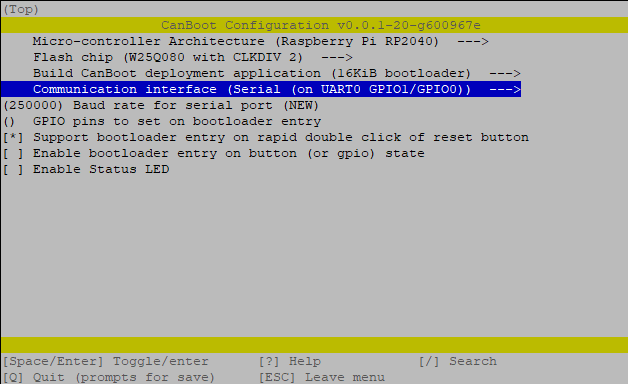
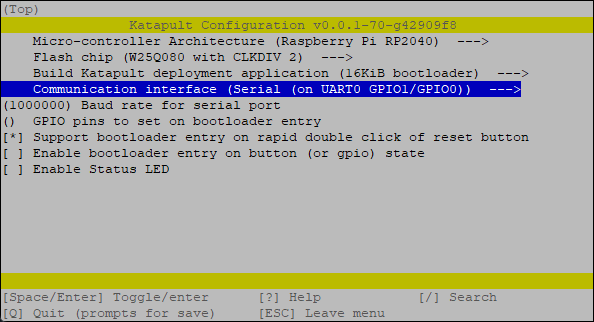
finished instructions

Changed region(s): [[0.0, 0.0, 1.0, 0.559], [0.0, 0.8385, 1.0, 1.0]]

diff --git a/README.md b/README.md
@@ -1,7 +1,12 @@
 # Steps to Flash BTT SKR Pico v1.0 with Canboot & Klipper in UART mode
 
-## Install CanBoot if you haven't already
-- Run the following from your klipper host to copy the canboot github files
+## Install Pyhton3 & CanBoot if you haven't already
+- Run the following from your klipper host to install Python3
+```
+sudo apt install python3 python3-pip python3-serial -y
+```
+
+- Now copy the canboot github files to your klipper host
 ```
 cd ~/
 git clone https://github.com/Arksine/CanBoot
@@ -40,6 +45,7 @@ is_system_service: False
     - MCU Raspberry Pi RP2040
     - Build CanBoot deployment 16Kib Bootloader
     - Com interface Serial on UART
+    - 1000000 baud rate
 
 ![Canboot in UART mode](/img/skr_pico_canboot_uart.png)
 
@@ -100,6 +106,7 @@ is_system_service: False
     - MCU Raspberry Pi RP2040
     - bootloader offset 16Kib Bootloader
     - Com interface Serial on UART
+    - 1000000 baud rate
 
 
 ![Klipper UART](/img/skr_pico_klipper_canbus_uart.png)    
@@ -112,7 +119,19 @@ is_system_service: False
  - Connect the SKR Pico UART pins to the klipper host.
  - Flash the klipper.bin file to the SKR Pico
   ```
-  python3 ~/CanBoot/scripts/flash_can.py -f ~/klipper/out/klipper.bin -d  /dev/ttyAMA0
+  python3 ~/CanBoot/scripts/flash_can.py -f ~/klipper/out/klipper.bin -d  /dev/ttyAMA0 -b 1000000
   ```
 
 - Reboot and your Pico should come back up in Serial UART mode.
+
+### Flashing again after Canboot and klipper has been installed
+
+ - Press the SKR Pico reset button twice to enter the Canoot bootloader. 
+ 
+ - Run the CanBoot flash_can script to flash the new klipper build. 
+
+  ```
+  python3 ~/CanBoot/scripts/flash_can.py -f ~/klipper/out/klipper.bin -d /dev/ttyAMA0 -b 1000000
+  ```
+ 
+  - Reboot 
